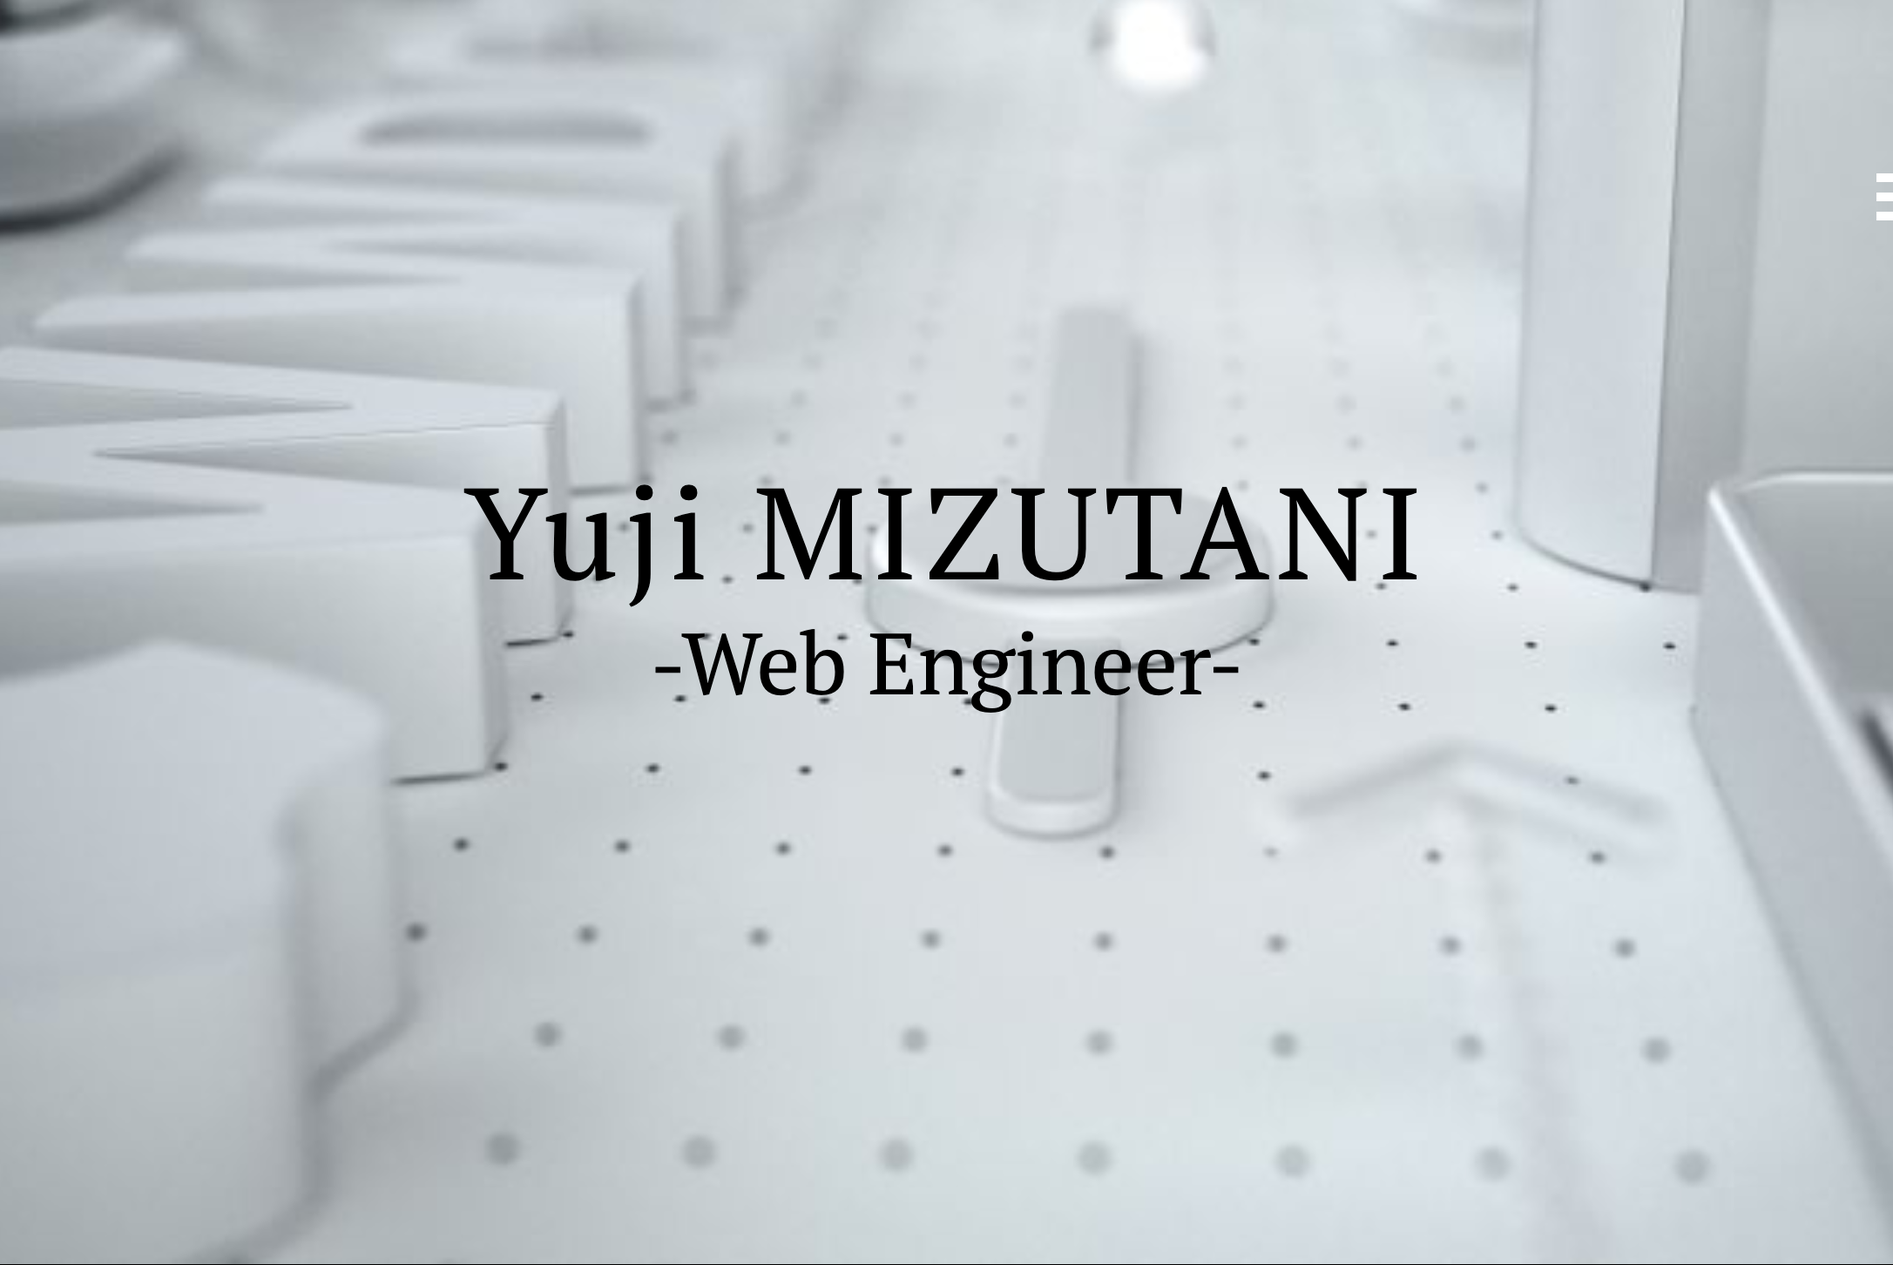
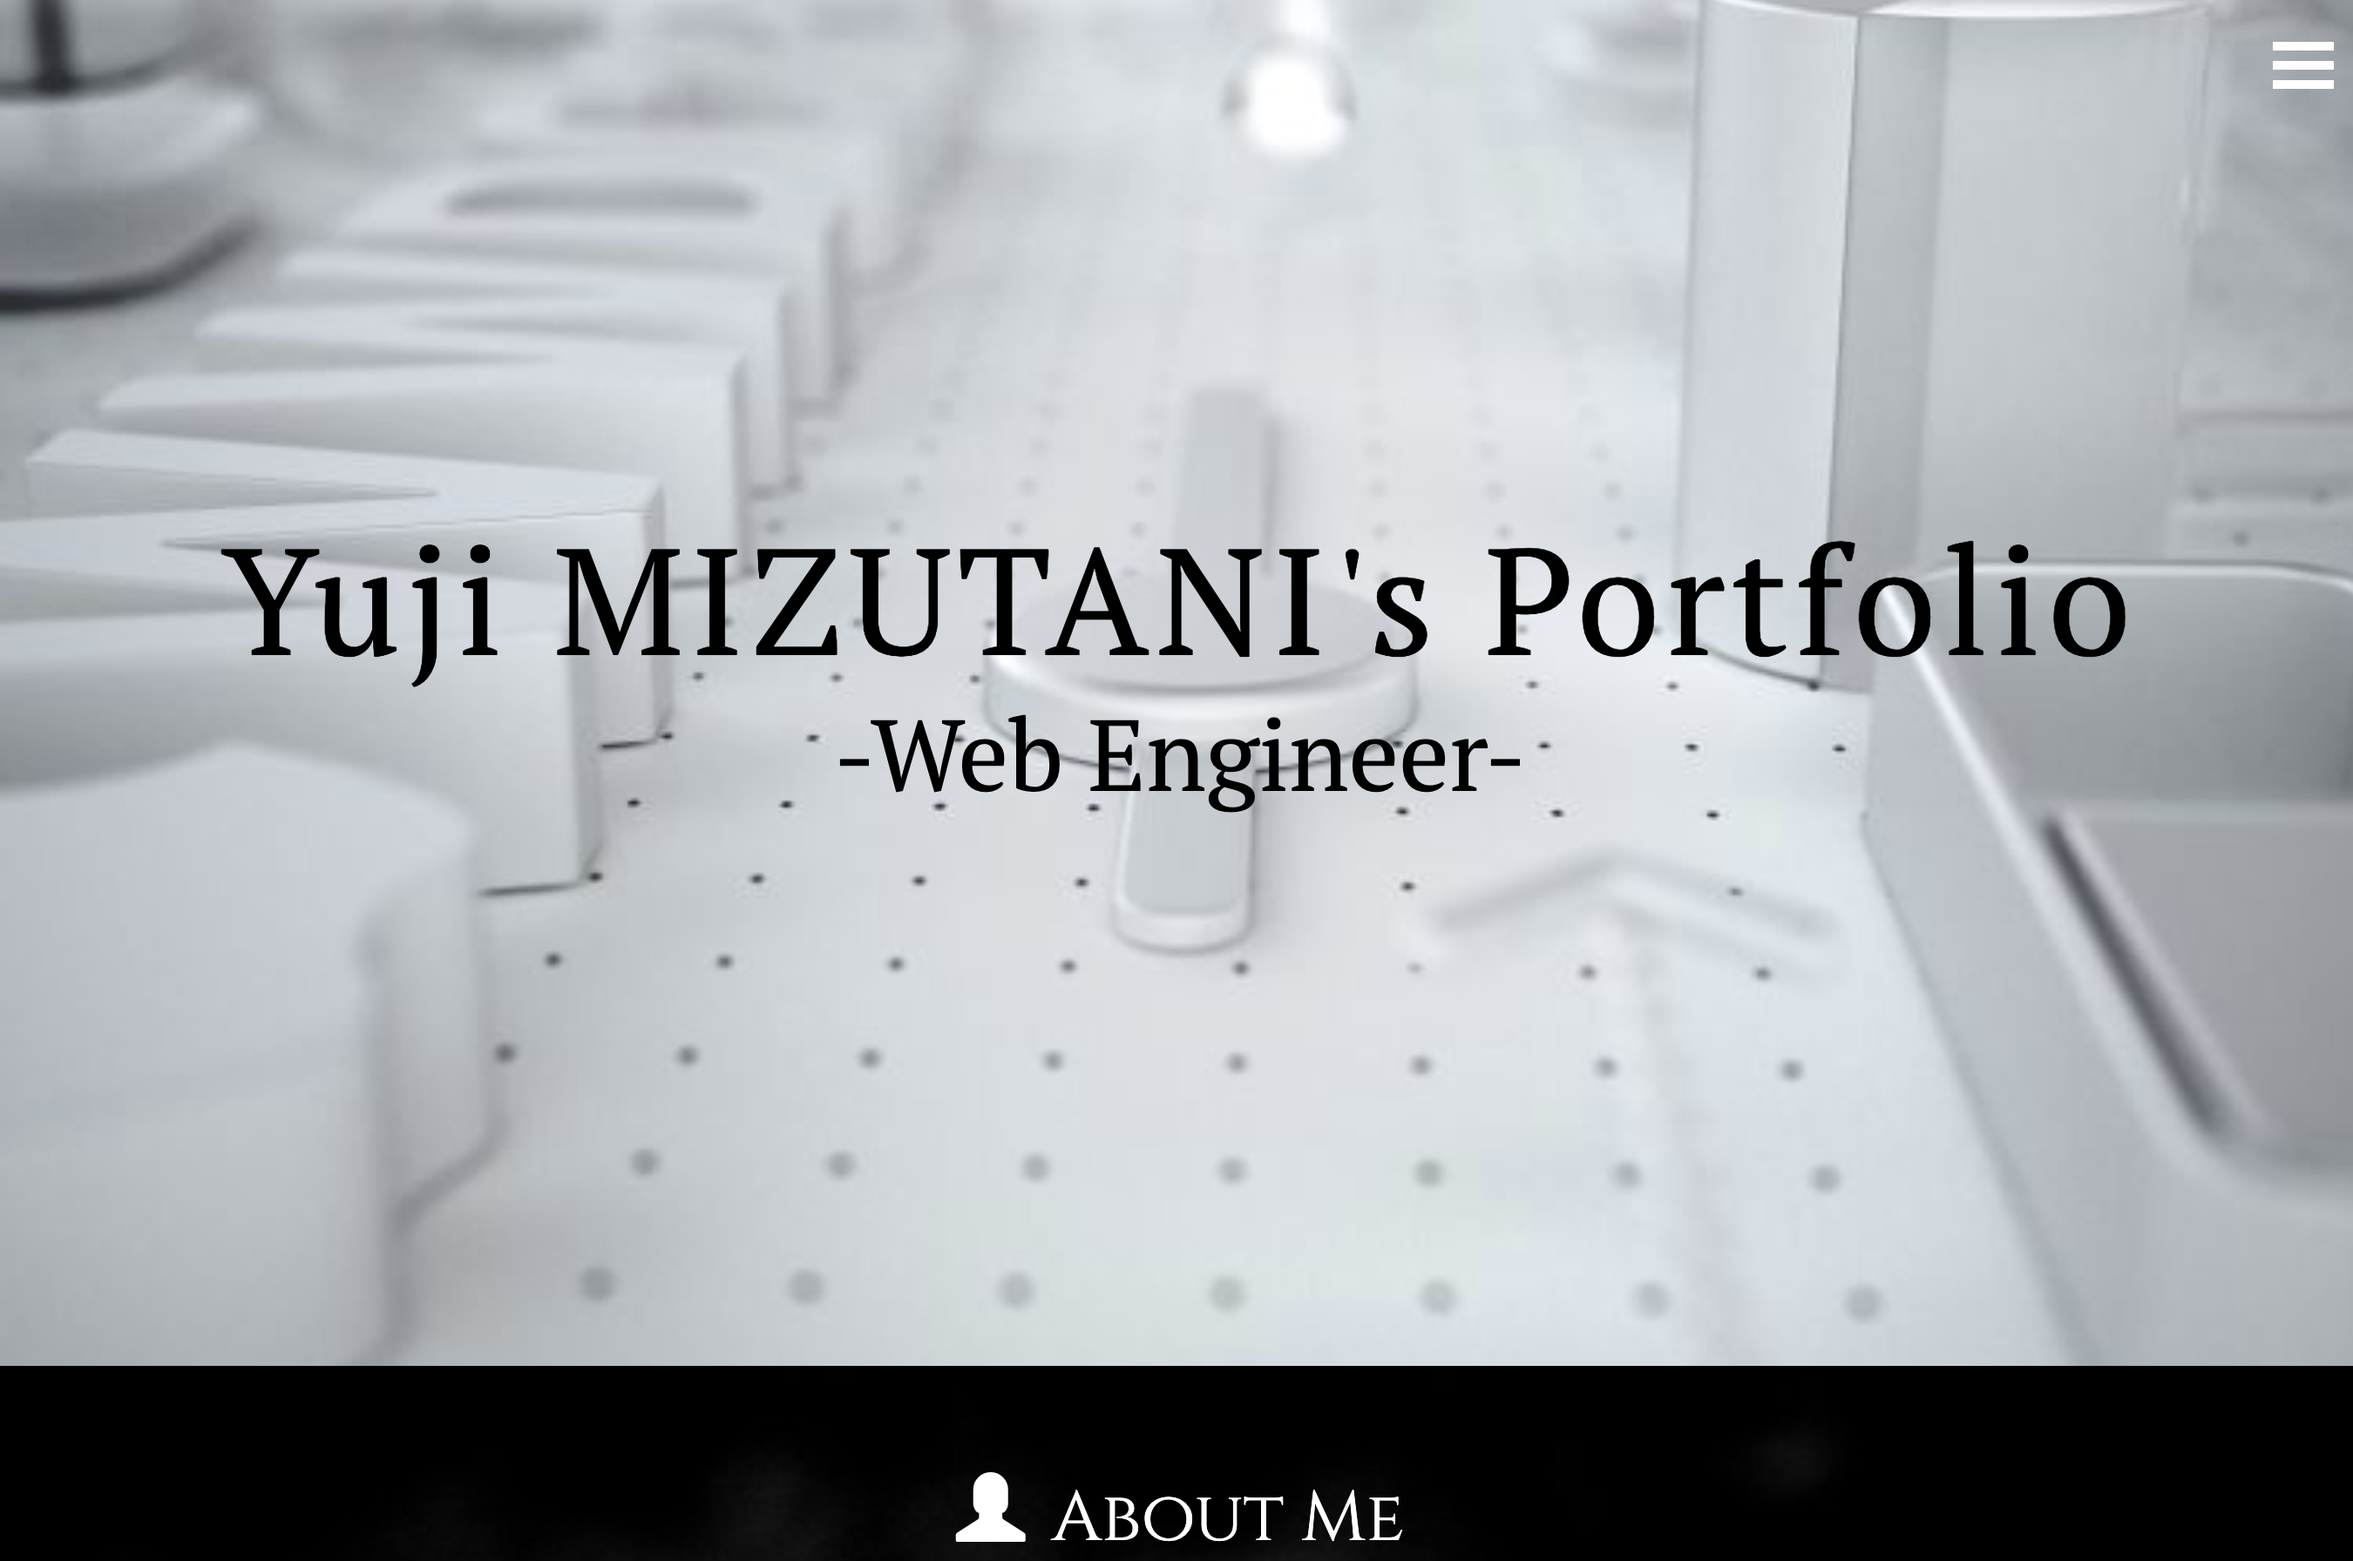
revision2

diff --git a/index.html b/index.html
@@ -40,7 +40,7 @@
 
 <!--タイトル-->
 <div class="my_introduction">
-    <h1 class="myname">Yuji MIZUTANI</h1>
+    <h1 class="myname">Yuji MIZUTANI's Portfolio</h1>
     <p class="worker_type">-Web Engineer-</p>
 </div>
 
@@ -249,7 +249,7 @@
   <div class="portfolio_title contact_title">
     <span class="glyphicon glyphicon-envelope" style="letter-spacing:5px;"></span><p>Contact</p>
   </div>
-  <div class="contact_text">ご依頼（ご相談）はメールまたはTwitterのDMよりお願い致します</div>
+  <div class="contact_text">ご依頼（ご相談）はメールよりお願い致します</div>
     <!--SNSアイコン-->
     <div>
     <ul class="follow-me">
